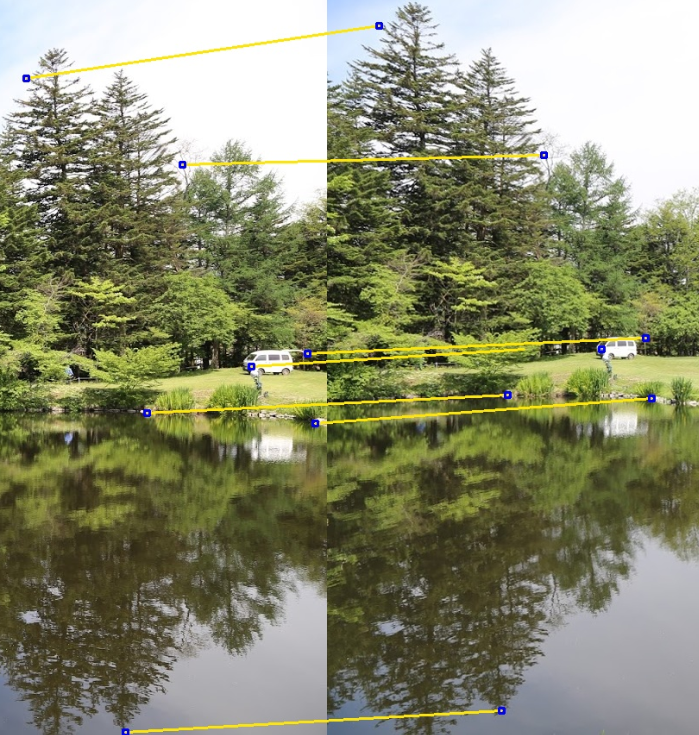
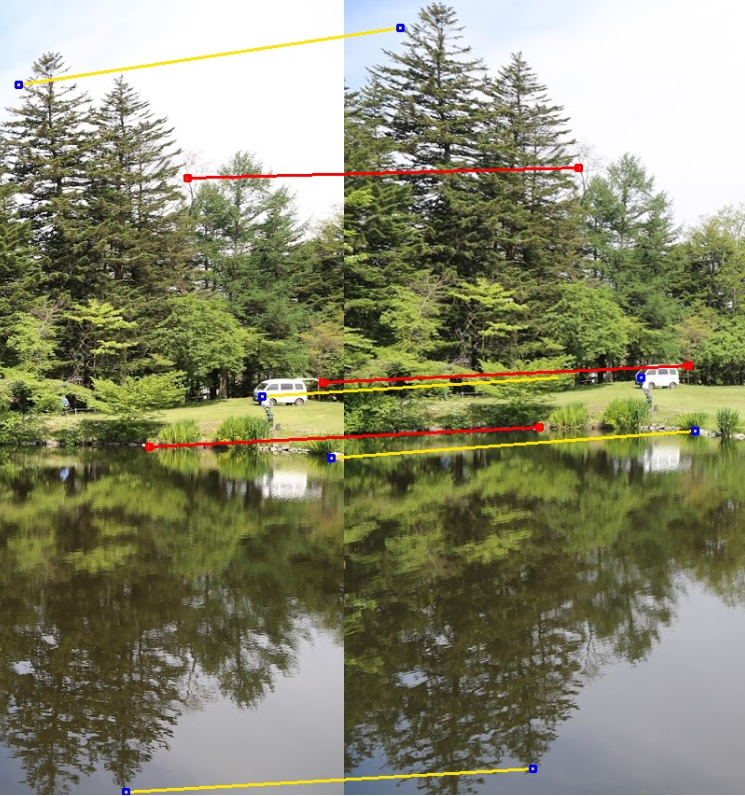
commit

diff --git a/point_mapping.py b/point_mapping.py
@@ -31,25 +31,25 @@ merged[:pic1.shape[0], pic1.shape[1]:, :] = pic2
 
 # 在圖片上畫一個綠色方框，線條寬度為 2 px
 
-cv2.line(merged, (1257, 411), (1649, 393), (0, 230, 255), 2)
-cv2.line(merged, (1071, 480), (1489, 459), (0, 230, 255), 2)
-cv2.line(merged, (1112, 192), (1531, 181), (0, 230, 255), 2)
+cv2.line(merged, (1257, 411), (1649, 393), (0, 0, 255), 2)
+cv2.line(merged, (1071, 480), (1489, 459), (0, 0, 255), 2)
+cv2.line(merged, (1112, 192), (1531, 181), (0, 0, 255), 2)
 cv2.line(merged, (931, 92), (1340, 31), (0, 230, 255), 2)
 cv2.line(merged, (1046, 850), (1482, 825), (0, 230, 255), 2)
 cv2.line(merged, (1266, 492), (1656, 463), (0, 230, 255), 2)
 cv2.line(merged, (1192, 426), (1508, 406), (0, 230, 255), 2)
 
-cv2.rectangle(merged, (1254, 408), (1260, 414), (255, 0, 0), 2)
-cv2.rectangle(merged, (1068, 477), (1074, 483), (255, 0, 0), 2)
-cv2.rectangle(merged, (1109, 189), (1115, 195), (255, 0, 0), 2)
+cv2.rectangle(merged, (1254, 408), (1260, 414), (0, 0, 255), 2)
+cv2.rectangle(merged, (1068, 477), (1074, 483), (0, 0, 255), 2)
+cv2.rectangle(merged, (1109, 189), (1115, 195), (0, 0, 255), 2)
 cv2.rectangle(merged, (928, 89), (934, 95), (255, 0, 0), 2)
 cv2.rectangle(merged, (1043, 847), (1049, 853), (255, 0, 0), 2)
 cv2.rectangle(merged, (1263, 489), (1269, 495), (255, 0, 0), 2)
 cv2.rectangle(merged, (1189, 423), (1195, 429), (255, 0, 0), 2)
 
-cv2.rectangle(merged, (1646, 390), (1652, 396), (255, 0, 0), 2)
-cv2.rectangle(merged, (1486, 456), (1492, 462), (255, 0, 0), 2)
-cv2.rectangle(merged, (1528, 178), (1534, 184), (255, 0, 0), 2)
+cv2.rectangle(merged, (1646, 390), (1652, 396), (0, 0, 255), 2)
+cv2.rectangle(merged, (1486, 456), (1492, 462), (0, 0, 255), 2)
+cv2.rectangle(merged, (1528, 178), (1534, 184), (0, 0, 255), 2)
 cv2.rectangle(merged, (1337, 28), (1343, 34), (255, 0, 0), 2)
 cv2.rectangle(merged, (1479, 822), (1485, 828), (255, 0, 0), 2)
 cv2.rectangle(merged, (1653, 460), (1659, 466), (255, 0, 0), 2)
